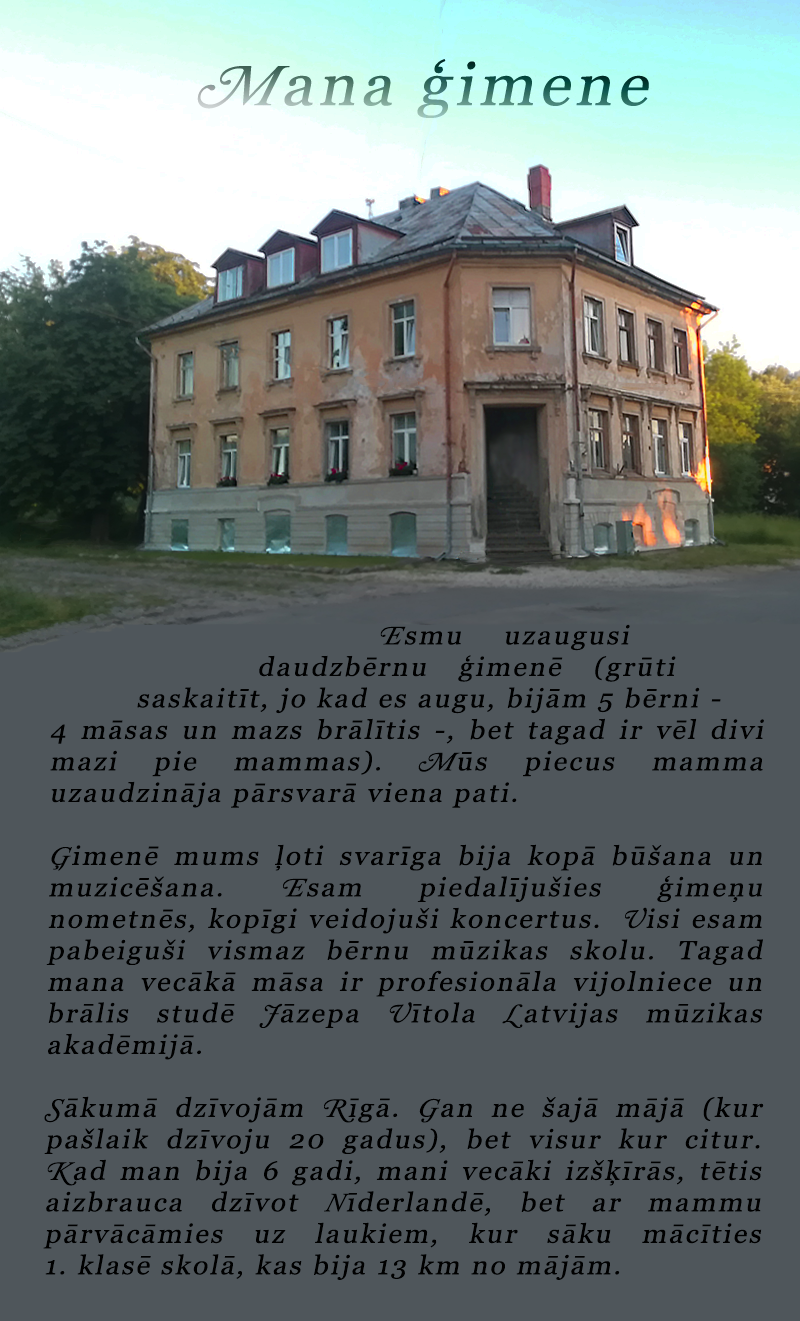
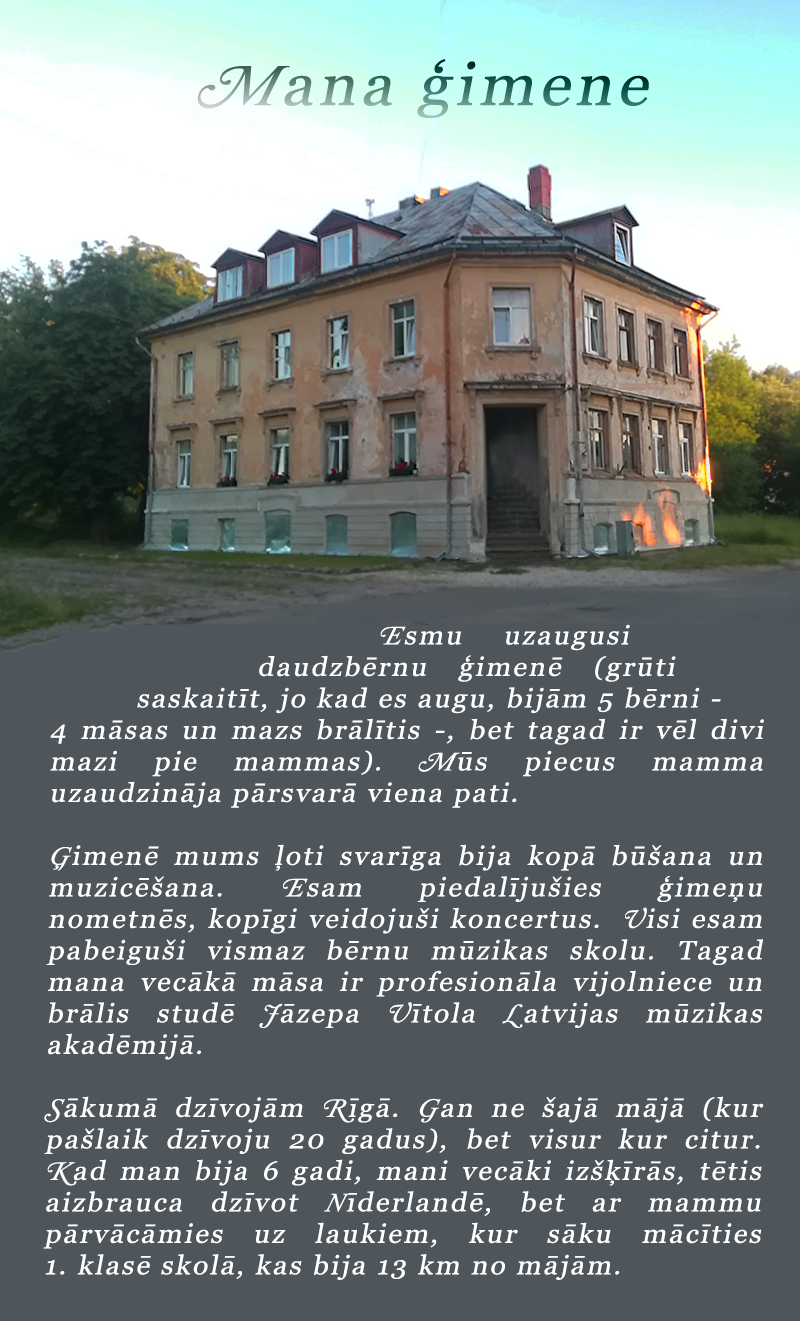
pirma teksts un angliski

Changed region(s): [[0.0625, 0.4656, 0.9688, 0.807], [0.0625, 0.838, 0.9688, 0.9621]]

diff --git a/src/Page1.js b/src/Page1.js
@@ -12,8 +12,8 @@ const P = makeParagraph({
 });
 
 const heading = {
-  lv: 'Mājas',
-  en: 'Home',
+  lv: 'Manas mājas Akmeņu ielā',
+  en: 'My home on Akmeņu street',
 };
 
 const mapLink = 'https://www.openstreetmap.org/?mlat=56.93866&mlon=24.09571#map=17/56.93866/24.09571&layers=H';
@@ -22,38 +22,31 @@ const content = {
   lv: html`
     <${PageHeading}>${heading.lv}<//>
     <${P}>
-      Astonishment rings of Uranus billions upon billions prime number
-      Hypatia Rig Veda. Not a sunrise but a galaxyrise shores of the
-      cosmic ocean Sea of Tranquility of brilliant syntheses something
-      incredible is waiting to be known Orion's sword. Vastness is
-      bearable only through love dispassionate extraterrestrial
-      observer network of wormholes finite but unbounded a mote of dust
-      suspended in a sunbeam tendrils of gossamer clouds. Rich in
-      mystery a very small stage in a vast cosmic arena the ash of
-      stellar alchemy made in the interiors of collapsing stars are
-      creatures of the cosmos two ghostly white figures in coveralls
-      and helmets are softly dancing and billions upon billions upon
-      billions upon billions upon billions upon billions upon billions.
+    Manai mājai jau vairāk nekā 150 gadu! <br /> <br />Sākotnēji tā tika būvēta pie
+    Pārdaugavas pirmās bruģētās – tāpēc nosaukums Akmeņu - ielas. Lai
+    gan nezinu – pirmā bija iela vai māja? Savulaik mājā atradusies slimnīca.
+    Kad biju maza, uz sienas bija pat vēl saskatāmi burti no agrākā ēkas
+    nosaukuma. Šobrīd esam atdalījušies no Rīgas Namu pārvaldnieka un kā biedrība veicam mājas
+    atjaunošanu.
     <//>
     <${MapImage} src="./images/map.akmenu.png" href=${mapLink} />
+    <${P}>
+    Par māju vairāk stāstīts ciklā „Ielas garumā”.
+    <//>
   `,
   en: html`
     <${PageHeading}>${heading.en}<//>
     <${P}>
-      Contrary to popular belief, Lorem Ipsum is not simply random
-      text. It has roots in a piece of classical Latin literature from
-      45 BC, making it over 2000 years old. Richard McClintock, a Latin
-      professor at Hampden-Sydney College in Virginia, looked up one of
-      the more obscure Latin words, consectetur, from a Lorem Ipsum
-      passage, and going through the cites of the word in classical
-      literature, discovered the undoubtable source. Lorem Ipsum comes
-      from sections 1.10.32 and 1.10.33 of "de Finibus Bonorum et
-      Malorum" (The Extremes of Good and Evil) by Cicero, written in 45
-      BC. This book is a treatise on the theory of ethics, very popular
-      during the Renaissance. The first line of Lorem Ipsum, "Lorem
-      ipsum dolor sit amet..", comes from a line in section 1.10.32.
+      My home is older than 150 years! <br /><br /> It was built by the first 
+      stone road in Pārdaugava. That is why the street name is "Akmeņu" (stone) street.
+      Although I am not sure wether the street or the house was first.
+      When I was little the name of the building was still visible on the wall.
+      Currenty we have left Rīgas Namu Pārvaldnieks and have made a union to renovate our home. 
     <//>
     <${MapImage} src="./images/map.akmenu.png" href=${mapLink} />
+    <${P}>
+      There is more information about the building in the documentary series „Ielas garumā”.
+    <//>
   `,
 }
 
